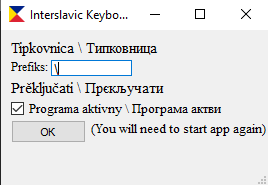
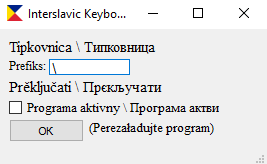
Fixed bugs

diff --git a/graphics/mainwindow.py b/graphics/mainwindow.py
@@ -103,4 +103,4 @@ class Ui_MainWindow(object):
         self.Switch_programm_chekbox.setText(_translate("MainWindow", "Programa aktivny \\ Програма актвины"))
         self.Ok_button.setText(_translate("MainWindow", "ОК"))
         self.label.setText(_translate("MainWindow", "Prefiks:"))
-        self.label_2.setText(_translate("MainWindow", "(You will need to start app again)"))
+        self.label_2.setText(_translate("MainWindow", "(Perezaładujte program)"))
